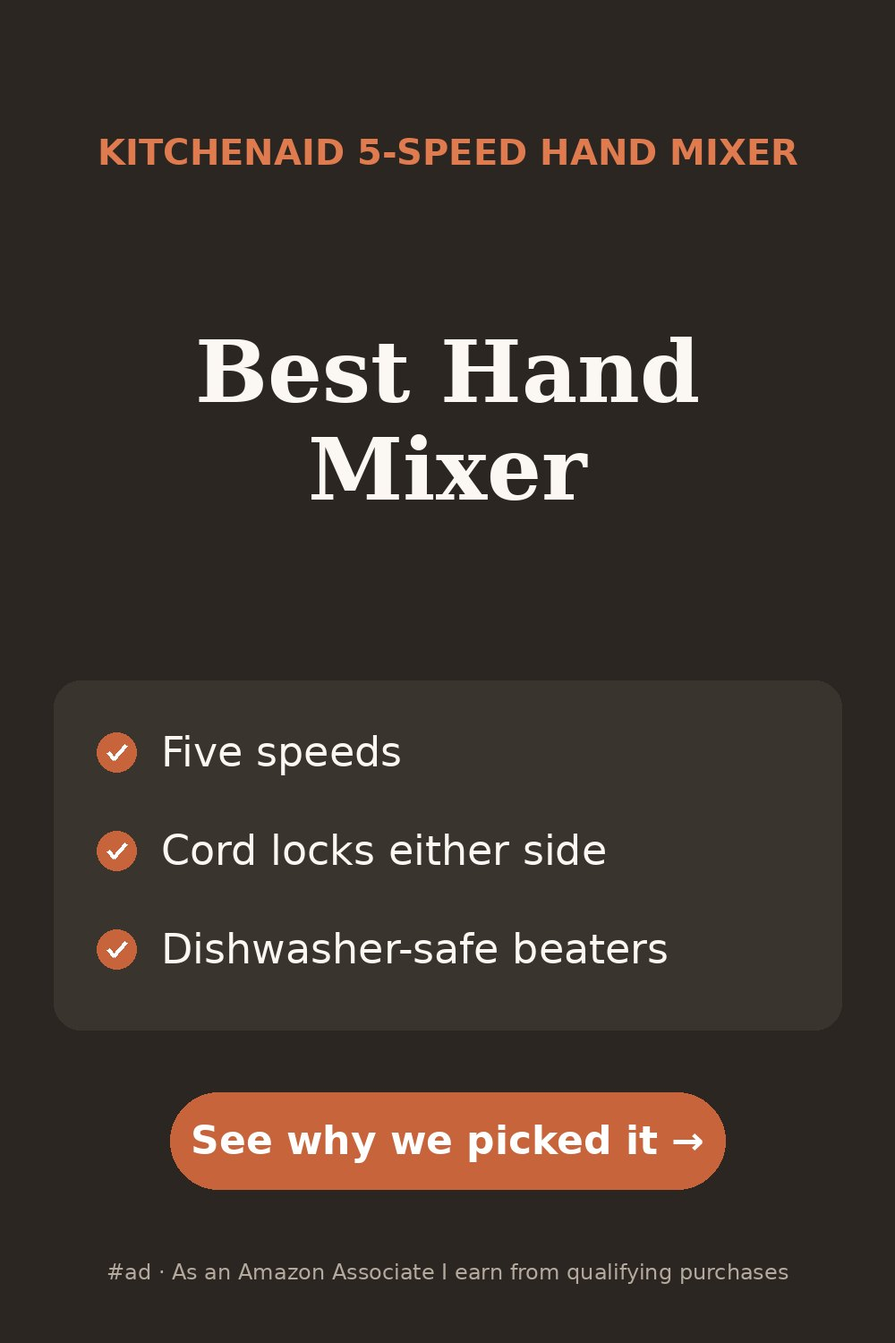
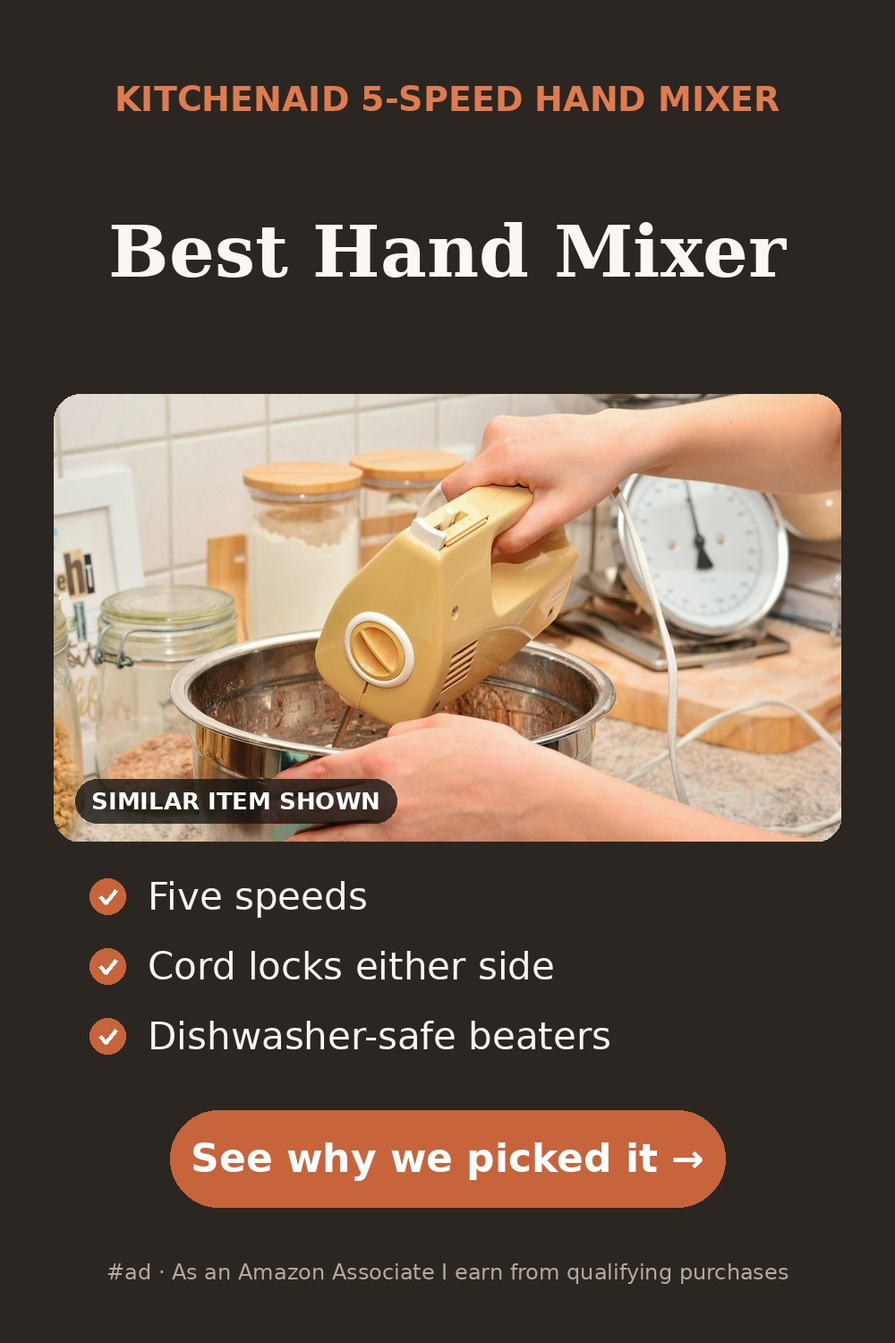
4 more product photos (34 of 62) (#40)
* Add similar-item photos for products that had none

* Add 4 more Pixabay photos (34 of 62), reject 25 off-target picks

Second Pixabay run (skipping previously rejected photos): kept two spice
racks, a hand mixer in use and a blender. Rejected 25 (circuit board,
parakeet, bulk water bottles, chopped okra, ...) and added them to
rejected.json so later runs try other photos.

Claude-Session: https://claude.ai/code/session_013Z8sgWpeXJjzgrsHKLojtB

---------

diff --git a/site/public/index.html b/site/public/index.html
@@ -206,7 +206,7 @@ try{navigator.sendBeacon('/click.php',new URLSearchParams({p:location.pathname,a
       </article>
       <article class="card" id="B01FHOWYA2" data-pl="card">
         <a class="img" href="https://www.amazon.com/dp/B01FHOWYA2?tag=kitchenfi0fde-20" rel="sponsored nofollow noopener" target="_blank">
-          <picture><source srcset="img/B01FHOWYA2-sq.webp" type="image/webp"><img src="img/B01FHOWYA2-sq.png" alt="Ninja Fit Compact Personal Blender" loading="lazy" width="800" height="800"></picture>
+          <picture><source srcset="img/B01FHOWYA2-sq.webp" type="image/webp"><img src="img/B01FHOWYA2-sq.png" alt="Ninja Fit Compact Personal Blender (photo shows a similar blender, not this exact product)" loading="lazy" width="800" height="800"></picture>
         </a>
         <div class="body">
           <h3><a href="picks/ninja-fit-compact-personal-blender/">Ninja Fit Compact Personal Blender</a></h3>
@@ -294,7 +294,7 @@ try{navigator.sendBeacon('/click.php',new URLSearchParams({p:location.pathname,a
       </article>
       <article class="card" id="B07NDZWMXF" data-pl="card">
         <a class="img" href="https://www.amazon.com/dp/B07NDZWMXF?tag=kitchenfi0fde-20" rel="sponsored nofollow noopener" target="_blank">
-          <picture><source srcset="img/B07NDZWMXF-sq.webp" type="image/webp"><img src="img/B07NDZWMXF-sq.png" alt="LYNK PROFESSIONAL Pull Out Spice Rack, 4-3/8 Inch Wide" loading="lazy" width="800" height="800"></picture>
+          <picture><source srcset="img/B07NDZWMXF-sq.webp" type="image/webp"><img src="img/B07NDZWMXF-sq.png" alt="LYNK PROFESSIONAL Pull Out Spice Rack, 4-3/8 Inch Wide (photo shows a similar spice rack, not this exact product)" loading="lazy" width="800" height="800"></picture>
         </a>
         <div class="body">
           <h3><a href="picks/lynk-professional-pull-out-spice-rack-4-3-8-inch-wide/">LYNK PROFESSIONAL Pull Out Spice Rack, 4-3/8 Inch Wide</a></h3>
@@ -371,7 +371,7 @@ try{navigator.sendBeacon('/click.php',new URLSearchParams({p:location.pathname,a
       </article>
       <article class="card" id="B0036OQU56" data-pl="card">
         <a class="img" href="https://www.amazon.com/dp/B0036OQU56?tag=kitchenfi0fde-20" rel="sponsored nofollow noopener" target="_blank">
-          <picture><source srcset="img/B0036OQU56-sq.webp" type="image/webp"><img src="img/B0036OQU56-sq.png" alt="Copco 3-Tier Cabinet Spice Rack, 15-Inch Non-Skid" loading="lazy" width="800" height="800"></picture>
+          <picture><source srcset="img/B0036OQU56-sq.webp" type="image/webp"><img src="img/B0036OQU56-sq.png" alt="Copco 3-Tier Cabinet Spice Rack, 15-Inch Non-Skid (photo shows a similar spice rack, not this exact product)" loading="lazy" width="800" height="800"></picture>
         </a>
         <div class="body">
           <h3><a href="picks/copco-3-tier-cabinet-spice-rack-15-inch-non-skid/">Copco 3-Tier Cabinet Spice Rack, 15-Inch Non-Skid</a></h3>
@@ -744,7 +744,7 @@ try{navigator.sendBeacon('/click.php',new URLSearchParams({p:location.pathname,a
       </article>
       <article class="card" id="B009VUHLHA" data-pl="card">
         <a class="img" href="https://www.amazon.com/dp/B009VUHLHA?tag=kitchenfi0fde-20" rel="sponsored nofollow noopener" target="_blank">
-          <picture><source srcset="img/B009VUHLHA-sq.webp" type="image/webp"><img src="img/B009VUHLHA-sq.png" alt="KitchenAid 5-Speed Ultra Power Hand Mixer" loading="lazy" width="800" height="800"></picture>
+          <picture><source srcset="img/B009VUHLHA-sq.webp" type="image/webp"><img src="img/B009VUHLHA-sq.png" alt="KitchenAid 5-Speed Ultra Power Hand Mixer (photo shows a similar hand mixer, not this exact product)" loading="lazy" width="800" height="800"></picture>
         </a>
         <div class="body">
           <h3><a href="picks/kitchenaid-5-speed-ultra-power-hand-mixer/">KitchenAid 5-Speed Ultra Power Hand Mixer</a></h3>

diff --git a/site/public/picks/copco-3-tier-cabinet-spice-rack-15-inch-non-skid/index.html b/site/public/picks/copco-3-tier-cabinet-spice-rack-15-inch-non-skid/index.html
@@ -160,9 +160,9 @@ try{navigator.sendBeacon('/click.php',new URLSearchParams({p:location.pathname,a
     <article class="pick" id="B0036OQU56" data-pl="pick">
       <div class="media">
       <a class="img" href="https://www.amazon.com/dp/B0036OQU56?tag=kitchenfi0fde-20" rel="sponsored nofollow noopener" target="_blank">
-        <picture><source srcset="../../img/B0036OQU56-sq.webp" type="image/webp"><img src="../../img/B0036OQU56-sq.png" alt="Copco 3-Tier Cabinet Spice Rack, 15-Inch Non-Skid" loading="eager" fetchpriority="high" width="800" height="800"></picture>
+        <picture><source srcset="../../img/B0036OQU56-sq.webp" type="image/webp"><img src="../../img/B0036OQU56-sq.png" alt="Copco 3-Tier Cabinet Spice Rack, 15-Inch Non-Skid (photo shows a similar spice rack, not this exact product)" loading="eager" fetchpriority="high" width="800" height="800"></picture>
       </a>
-      
+      <p class="photo-note">Photo shows a similar spice rack, not this exact product. See the real product photos on Amazon. Photo: <a href="https://pixabay.com/photos/spice-rack-cook-spices-preparation-2637251/" rel="nofollow noopener">Alexas_Fotos / Pixabay</a></p>
       </div>
       <div class="info">
         <h1>Copco 3-Tier Cabinet Spice Rack, 15-Inch Non-Skid</h1>
@@ -197,7 +197,7 @@ try{navigator.sendBeacon('/click.php',new URLSearchParams({p:location.pathname,a
       </article>
       <article class="card" id="B07NDZWMXF" data-pl="card">
         <a class="img" href="https://www.amazon.com/dp/B07NDZWMXF?tag=kitchenfi0fde-20" rel="sponsored nofollow noopener" target="_blank">
-          <picture><source srcset="../../img/B07NDZWMXF-sq.webp" type="image/webp"><img src="../../img/B07NDZWMXF-sq.png" alt="LYNK PROFESSIONAL Pull Out Spice Rack, 4-3/8 Inch Wide" loading="lazy" width="800" height="800"></picture>
+          <picture><source srcset="../../img/B07NDZWMXF-sq.webp" type="image/webp"><img src="../../img/B07NDZWMXF-sq.png" alt="LYNK PROFESSIONAL Pull Out Spice Rack, 4-3/8 Inch Wide (photo shows a similar spice rack, not this exact product)" loading="lazy" width="800" height="800"></picture>
         </a>
         <div class="body">
           <h3><a href="../../picks/lynk-professional-pull-out-spice-rack-4-3-8-inch-wide/">LYNK PROFESSIONAL Pull Out Spice Rack, 4-3/8 Inch Wide</a></h3>

diff --git a/site/public/picks/lynk-professional-pull-out-spice-rack-4-3-8-inch-wide/index.html b/site/public/picks/lynk-professional-pull-out-spice-rack-4-3-8-inch-wide/index.html
@@ -160,9 +160,9 @@ try{navigator.sendBeacon('/click.php',new URLSearchParams({p:location.pathname,a
     <article class="pick" id="B07NDZWMXF" data-pl="pick">
       <div class="media">
       <a class="img" href="https://www.amazon.com/dp/B07NDZWMXF?tag=kitchenfi0fde-20" rel="sponsored nofollow noopener" target="_blank">
-        <picture><source srcset="../../img/B07NDZWMXF-sq.webp" type="image/webp"><img src="../../img/B07NDZWMXF-sq.png" alt="LYNK PROFESSIONAL Pull Out Spice Rack, 4-3/8 Inch Wide" loading="eager" fetchpriority="high" width="800" height="800"></picture>
+        <picture><source srcset="../../img/B07NDZWMXF-sq.webp" type="image/webp"><img src="../../img/B07NDZWMXF-sq.png" alt="LYNK PROFESSIONAL Pull Out Spice Rack, 4-3/8 Inch Wide (photo shows a similar spice rack, not this exact product)" loading="eager" fetchpriority="high" width="800" height="800"></picture>
       </a>
-      
+      <p class="photo-note">Photo shows a similar spice rack, not this exact product. See the real product photos on Amazon. Photo: <a href="https://pixabay.com/photos/frog-cook-spices-preparation-meal-1650055/" rel="nofollow noopener">Alexas_Fotos / Pixabay</a></p>
       </div>
       <div class="info">
         <h1>LYNK PROFESSIONAL Pull Out Spice Rack, 4-3/8 Inch Wide</h1>
@@ -197,7 +197,7 @@ try{navigator.sendBeacon('/click.php',new URLSearchParams({p:location.pathname,a
       </article>
       <article class="card" id="B0036OQU56" data-pl="card">
         <a class="img" href="https://www.amazon.com/dp/B0036OQU56?tag=kitchenfi0fde-20" rel="sponsored nofollow noopener" target="_blank">
-          <picture><source srcset="../../img/B0036OQU56-sq.webp" type="image/webp"><img src="../../img/B0036OQU56-sq.png" alt="Copco 3-Tier Cabinet Spice Rack, 15-Inch Non-Skid" loading="lazy" width="800" height="800"></picture>
+          <picture><source srcset="../../img/B0036OQU56-sq.webp" type="image/webp"><img src="../../img/B0036OQU56-sq.png" alt="Copco 3-Tier Cabinet Spice Rack, 15-Inch Non-Skid (photo shows a similar spice rack, not this exact product)" loading="lazy" width="800" height="800"></picture>
         </a>
         <div class="body">
           <h3><a href="../../picks/copco-3-tier-cabinet-spice-rack-15-inch-non-skid/">Copco 3-Tier Cabinet Spice Rack, 15-Inch Non-Skid</a></h3>

diff --git a/site/public/picks/kitchenaid-5-speed-ultra-power-hand-mixer/index.html b/site/public/picks/kitchenaid-5-speed-ultra-power-hand-mixer/index.html
@@ -160,9 +160,9 @@ try{navigator.sendBeacon('/click.php',new URLSearchParams({p:location.pathname,a
     <article class="pick" id="B009VUHLHA" data-pl="pick">
       <div class="media">
       <a class="img" href="https://www.amazon.com/dp/B009VUHLHA?tag=kitchenfi0fde-20" rel="sponsored nofollow noopener" target="_blank">
-        <picture><source srcset="../../img/B009VUHLHA-sq.webp" type="image/webp"><img src="../../img/B009VUHLHA-sq.png" alt="KitchenAid 5-Speed Ultra Power Hand Mixer" loading="eager" fetchpriority="high" width="800" height="800"></picture>
+        <picture><source srcset="../../img/B009VUHLHA-sq.webp" type="image/webp"><img src="../../img/B009VUHLHA-sq.png" alt="KitchenAid 5-Speed Ultra Power Hand Mixer (photo shows a similar hand mixer, not this exact product)" loading="eager" fetchpriority="high" width="800" height="800"></picture>
       </a>
-      
+      <p class="photo-note">Photo shows a similar hand mixer, not this exact product. See the real product photos on Amazon. Photo: <a href="https://pixabay.com/photos/hands-stir-dough-stir-cake-batter-3402536/" rel="nofollow noopener">congerdesign / Pixabay</a></p>
       </div>
       <div class="info">
         <h1>KitchenAid 5-Speed Ultra Power Hand Mixer</h1>
@@ -186,7 +186,7 @@ try{navigator.sendBeacon('/click.php',new URLSearchParams({p:location.pathname,a
       <div class="grid">
       <article class="card" id="B01FHOWYA2" data-pl="card">
         <a class="img" href="https://www.amazon.com/dp/B01FHOWYA2?tag=kitchenfi0fde-20" rel="sponsored nofollow noopener" target="_blank">
-          <picture><source srcset="../../img/B01FHOWYA2-sq.webp" type="image/webp"><img src="../../img/B01FHOWYA2-sq.png" alt="Ninja Fit Compact Personal Blender" loading="lazy" width="800" height="800"></picture>
+          <picture><source srcset="../../img/B01FHOWYA2-sq.webp" type="image/webp"><img src="../../img/B01FHOWYA2-sq.png" alt="Ninja Fit Compact Personal Blender (photo shows a similar blender, not this exact product)" loading="lazy" width="800" height="800"></picture>
         </a>
         <div class="body">
           <h3><a href="../../picks/ninja-fit-compact-personal-blender/">Ninja Fit Compact Personal Blender</a></h3>

diff --git a/site/public/picks/ninja-fit-compact-personal-blender/index.html b/site/public/picks/ninja-fit-compact-personal-blender/index.html
@@ -160,9 +160,9 @@ try{navigator.sendBeacon('/click.php',new URLSearchParams({p:location.pathname,a
     <article class="pick" id="B01FHOWYA2" data-pl="pick">
       <div class="media">
       <a class="img" href="https://www.amazon.com/dp/B01FHOWYA2?tag=kitchenfi0fde-20" rel="sponsored nofollow noopener" target="_blank">
-        <picture><source srcset="../../img/B01FHOWYA2-sq.webp" type="image/webp"><img src="../../img/B01FHOWYA2-sq.png" alt="Ninja Fit Compact Personal Blender" loading="eager" fetchpriority="high" width="800" height="800"></picture>
+        <picture><source srcset="../../img/B01FHOWYA2-sq.webp" type="image/webp"><img src="../../img/B01FHOWYA2-sq.png" alt="Ninja Fit Compact Personal Blender (photo shows a similar blender, not this exact product)" loading="eager" fetchpriority="high" width="800" height="800"></picture>
       </a>
-      
+      <p class="photo-note">Photo shows a similar blender, not this exact product. See the real product photos on Amazon. Photo: <a href="https://pixabay.com/photos/blender-mixer-juicer-food-processor-10933/" rel="nofollow noopener">opaye / Pixabay</a></p>
       </div>
       <div class="info">
         <h1>Ninja Fit Compact Personal Blender</h1>
@@ -197,7 +197,7 @@ try{navigator.sendBeacon('/click.php',new URLSearchParams({p:location.pathname,a
       </article>
       <article class="card" id="B009VUHLHA" data-pl="card">
         <a class="img" href="https://www.amazon.com/dp/B009VUHLHA?tag=kitchenfi0fde-20" rel="sponsored nofollow noopener" target="_blank">
-          <picture><source srcset="../../img/B009VUHLHA-sq.webp" type="image/webp"><img src="../../img/B009VUHLHA-sq.png" alt="KitchenAid 5-Speed Ultra Power Hand Mixer" loading="lazy" width="800" height="800"></picture>
+          <picture><source srcset="../../img/B009VUHLHA-sq.webp" type="image/webp"><img src="../../img/B009VUHLHA-sq.png" alt="KitchenAid 5-Speed Ultra Power Hand Mixer (photo shows a similar hand mixer, not this exact product)" loading="lazy" width="800" height="800"></picture>
         </a>
         <div class="body">
           <h3><a href="../../picks/kitchenaid-5-speed-ultra-power-hand-mixer/">KitchenAid 5-Speed Ultra Power Hand Mixer</a></h3>

diff --git a/site/public/picks/spaceaid-bamboo-expandable-4-tier-spice-drawer-organizer/index.html b/site/public/picks/spaceaid-bamboo-expandable-4-tier-spice-drawer-organizer/index.html
@@ -186,7 +186,7 @@ try{navigator.sendBeacon('/click.php',new URLSearchParams({p:location.pathname,a
       <div class="grid">
       <article class="card" id="B07NDZWMXF" data-pl="card">
         <a class="img" href="https://www.amazon.com/dp/B07NDZWMXF?tag=kitchenfi0fde-20" rel="sponsored nofollow noopener" target="_blank">
-          <picture><source srcset="../../img/B07NDZWMXF-sq.webp" type="image/webp"><img src="../../img/B07NDZWMXF-sq.png" alt="LYNK PROFESSIONAL Pull Out Spice Rack, 4-3/8 Inch Wide" loading="lazy" width="800" height="800"></picture>
+          <picture><source srcset="../../img/B07NDZWMXF-sq.webp" type="image/webp"><img src="../../img/B07NDZWMXF-sq.png" alt="LYNK PROFESSIONAL Pull Out Spice Rack, 4-3/8 Inch Wide (photo shows a similar spice rack, not this exact product)" loading="lazy" width="800" height="800"></picture>
         </a>
         <div class="body">
           <h3><a href="../../picks/lynk-professional-pull-out-spice-rack-4-3-8-inch-wide/">LYNK PROFESSIONAL Pull Out Spice Rack, 4-3/8 Inch Wide</a></h3>
@@ -197,7 +197,7 @@ try{navigator.sendBeacon('/click.php',new URLSearchParams({p:location.pathname,a
       </article>
       <article class="card" id="B0036OQU56" data-pl="card">
         <a class="img" href="https://www.amazon.com/dp/B0036OQU56?tag=kitchenfi0fde-20" rel="sponsored nofollow noopener" target="_blank">
-          <picture><source srcset="../../img/B0036OQU56-sq.webp" type="image/webp"><img src="../../img/B0036OQU56-sq.png" alt="Copco 3-Tier Cabinet Spice Rack, 15-Inch Non-Skid" loading="lazy" width="800" height="800"></picture>
+          <picture><source srcset="../../img/B0036OQU56-sq.webp" type="image/webp"><img src="../../img/B0036OQU56-sq.png" alt="Copco 3-Tier Cabinet Spice Rack, 15-Inch Non-Skid (photo shows a similar spice rack, not this exact product)" loading="lazy" width="800" height="800"></picture>
         </a>
         <div class="body">
           <h3><a href="../../picks/copco-3-tier-cabinet-spice-rack-15-inch-non-skid/">Copco 3-Tier Cabinet Spice Rack, 15-Inch Non-Skid</a></h3>

diff --git a/site/public/picks/huggiegems-magnetic-spice-rack-4-pack/index.html b/site/public/picks/huggiegems-magnetic-spice-rack-4-pack/index.html
@@ -197,7 +197,7 @@ try{navigator.sendBeacon('/click.php',new URLSearchParams({p:location.pathname,a
       </article>
       <article class="card" id="B07NDZWMXF" data-pl="card">
         <a class="img" href="https://www.amazon.com/dp/B07NDZWMXF?tag=kitchenfi0fde-20" rel="sponsored nofollow noopener" target="_blank">
-          <picture><source srcset="../../img/B07NDZWMXF-sq.webp" type="image/webp"><img src="../../img/B07NDZWMXF-sq.png" alt="LYNK PROFESSIONAL Pull Out Spice Rack, 4-3/8 Inch Wide" loading="lazy" width="800" height="800"></picture>
+          <picture><source srcset="../../img/B07NDZWMXF-sq.webp" type="image/webp"><img src="../../img/B07NDZWMXF-sq.png" alt="LYNK PROFESSIONAL Pull Out Spice Rack, 4-3/8 Inch Wide (photo shows a similar spice rack, not this exact product)" loading="lazy" width="800" height="800"></picture>
         </a>
         <div class="body">
           <h3><a href="../../picks/lynk-professional-pull-out-spice-rack-4-3-8-inch-wide/">LYNK PROFESSIONAL Pull Out Spice Rack, 4-3/8 Inch Wide</a></h3>
@@ -208,7 +208,7 @@ try{navigator.sendBeacon('/click.php',new URLSearchParams({p:location.pathname,a
       </article>
       <article class="card" id="B0036OQU56" data-pl="card">
         <a class="img" href="https://www.amazon.com/dp/B0036OQU56?tag=kitchenfi0fde-20" rel="sponsored nofollow noopener" target="_blank">
-          <picture><source srcset="../../img/B0036OQU56-sq.webp" type="image/webp"><img src="../../img/B0036OQU56-sq.png" alt="Copco 3-Tier Cabinet Spice Rack, 15-Inch Non-Skid" loading="lazy" width="800" height="800"></picture>
+          <picture><source srcset="../../img/B0036OQU56-sq.webp" type="image/webp"><img src="../../img/B0036OQU56-sq.png" alt="Copco 3-Tier Cabinet Spice Rack, 15-Inch Non-Skid (photo shows a similar spice rack, not this exact product)" loading="lazy" width="800" height="800"></picture>
         </a>
         <div class="body">
           <h3><a href="../../picks/copco-3-tier-cabinet-spice-rack-15-inch-non-skid/">Copco 3-Tier Cabinet Spice Rack, 15-Inch Non-Skid</a></h3>

diff --git a/site/public/kitchen-organization/index.html b/site/public/kitchen-organization/index.html
@@ -217,7 +217,7 @@ try{navigator.sendBeacon('/click.php',new URLSearchParams({p:location.pathname,a
       </article>
       <article class="card" id="B07NDZWMXF" data-pl="card">
         <a class="img" href="https://www.amazon.com/dp/B07NDZWMXF?tag=kitchenfi0fde-20" rel="sponsored nofollow noopener" target="_blank">
-          <picture><source srcset="/img/B07NDZWMXF-sq.webp" type="image/webp"><img src="/img/B07NDZWMXF-sq.png" alt="LYNK PROFESSIONAL Pull Out Spice Rack, 4-3/8 Inch Wide" loading="lazy" width="800" height="800"></picture>
+          <picture><source srcset="/img/B07NDZWMXF-sq.webp" type="image/webp"><img src="/img/B07NDZWMXF-sq.png" alt="LYNK PROFESSIONAL Pull Out Spice Rack, 4-3/8 Inch Wide (photo shows a similar spice rack, not this exact product)" loading="lazy" width="800" height="800"></picture>
         </a>
         <div class="body">
           <h3><a href="/picks/lynk-professional-pull-out-spice-rack-4-3-8-inch-wide/">LYNK PROFESSIONAL Pull Out Spice Rack, 4-3/8 Inch Wide</a></h3>
@@ -294,7 +294,7 @@ try{navigator.sendBeacon('/click.php',new URLSearchParams({p:location.pathname,a
       </article>
       <article class="card" id="B0036OQU56" data-pl="card">
         <a class="img" href="https://www.amazon.com/dp/B0036OQU56?tag=kitchenfi0fde-20" rel="sponsored nofollow noopener" target="_blank">
-          <picture><source srcset="/img/B0036OQU56-sq.webp" type="image/webp"><img src="/img/B0036OQU56-sq.png" alt="Copco 3-Tier Cabinet Spice Rack, 15-Inch Non-Skid" loading="lazy" width="800" height="800"></picture>
+          <picture><source srcset="/img/B0036OQU56-sq.webp" type="image/webp"><img src="/img/B0036OQU56-sq.png" alt="Copco 3-Tier Cabinet Spice Rack, 15-Inch Non-Skid (photo shows a similar spice rack, not this exact product)" loading="lazy" width="800" height="800"></picture>
         </a>
         <div class="body">
           <h3><a href="/picks/copco-3-tier-cabinet-spice-rack-15-inch-non-skid/">Copco 3-Tier Cabinet Spice Rack, 15-Inch Non-Skid</a></h3>

diff --git a/site/public/picks/cuisinart-mini-prep-plus-3-cup-food-processor/index.html b/site/public/picks/cuisinart-mini-prep-plus-3-cup-food-processor/index.html
@@ -186,7 +186,7 @@ try{navigator.sendBeacon('/click.php',new URLSearchParams({p:location.pathname,a
       <div class="grid">
       <article class="card" id="B01FHOWYA2" data-pl="card">
         <a class="img" href="https://www.amazon.com/dp/B01FHOWYA2?tag=kitchenfi0fde-20" rel="sponsored nofollow noopener" target="_blank">
-          <picture><source srcset="../../img/B01FHOWYA2-sq.webp" type="image/webp"><img src="../../img/B01FHOWYA2-sq.png" alt="Ninja Fit Compact Personal Blender" loading="lazy" width="800" height="800"></picture>
+          <picture><source srcset="../../img/B01FHOWYA2-sq.webp" type="image/webp"><img src="../../img/B01FHOWYA2-sq.png" alt="Ninja Fit Compact Personal Blender (photo shows a similar blender, not this exact product)" loading="lazy" width="800" height="800"></picture>
         </a>
         <div class="body">
           <h3><a href="../../picks/ninja-fit-compact-personal-blender/">Ninja Fit Compact Personal Blender</a></h3>
@@ -208,7 +208,7 @@ try{navigator.sendBeacon('/click.php',new URLSearchParams({p:location.pathname,a
       </article>
       <article class="card" id="B009VUHLHA" data-pl="card">
         <a class="img" href="https://www.amazon.com/dp/B009VUHLHA?tag=kitchenfi0fde-20" rel="sponsored nofollow noopener" target="_blank">
-          <picture><source srcset="../../img/B009VUHLHA-sq.webp" type="image/webp"><img src="../../img/B009VUHLHA-sq.png" alt="KitchenAid 5-Speed Ultra Power Hand Mixer" loading="lazy" width="800" height="800"></picture>
+          <picture><source srcset="../../img/B009VUHLHA-sq.webp" type="image/webp"><img src="../../img/B009VUHLHA-sq.png" alt="KitchenAid 5-Speed Ultra Power Hand Mixer (photo shows a similar hand mixer, not this exact product)" loading="lazy" width="800" height="800"></picture>
         </a>
         <div class="body">
           <h3><a href="../../picks/kitchenaid-5-speed-ultra-power-hand-mixer/">KitchenAid 5-Speed Ultra Power Hand Mixer</a></h3>

diff --git a/site/public/picks/mueller-multistick-5-in-1-immersion-blender/index.html b/site/public/picks/mueller-multistick-5-in-1-immersion-blender/index.html
@@ -186,7 +186,7 @@ try{navigator.sendBeacon('/click.php',new URLSearchParams({p:location.pathname,a
       <div class="grid">
       <article class="card" id="B01FHOWYA2" data-pl="card">
         <a class="img" href="https://www.amazon.com/dp/B01FHOWYA2?tag=kitchenfi0fde-20" rel="sponsored nofollow noopener" target="_blank">
-          <picture><source srcset="../../img/B01FHOWYA2-sq.webp" type="image/webp"><img src="../../img/B01FHOWYA2-sq.png" alt="Ninja Fit Compact Personal Blender" loading="lazy" width="800" height="800"></picture>
+          <picture><source srcset="../../img/B01FHOWYA2-sq.webp" type="image/webp"><img src="../../img/B01FHOWYA2-sq.png" alt="Ninja Fit Compact Personal Blender (photo shows a similar blender, not this exact product)" loading="lazy" width="800" height="800"></picture>
         </a>
         <div class="body">
           <h3><a href="../../picks/ninja-fit-compact-personal-blender/">Ninja Fit Compact Personal Blender</a></h3>
@@ -197,7 +197,7 @@ try{navigator.sendBeacon('/click.php',new URLSearchParams({p:location.pathname,a
       </article>
       <article class="card" id="B009VUHLHA" data-pl="card">
         <a class="img" href="https://www.amazon.com/dp/B009VUHLHA?tag=kitchenfi0fde-20" rel="sponsored nofollow noopener" target="_blank">
-          <picture><source srcset="../../img/B009VUHLHA-sq.webp" type="image/webp"><img src="../../img/B009VUHLHA-sq.png" alt="KitchenAid 5-Speed Ultra Power Hand Mixer" loading="lazy" width="800" height="800"></picture>
+          <picture><source srcset="../../img/B009VUHLHA-sq.webp" type="image/webp"><img src="../../img/B009VUHLHA-sq.png" alt="KitchenAid 5-Speed Ultra Power Hand Mixer (photo shows a similar hand mixer, not this exact product)" loading="lazy" width="800" height="800"></picture>
         </a>
         <div class="body">
           <h3><a href="../../picks/kitchenaid-5-speed-ultra-power-hand-mixer/">KitchenAid 5-Speed Ultra Power Hand Mixer</a></h3>

diff --git a/site/public/picks/muellerliving-ultra-stick-immersion-hand-blender/index.html b/site/public/picks/muellerliving-ultra-stick-immersion-hand-blender/index.html
@@ -186,7 +186,7 @@ try{navigator.sendBeacon('/click.php',new URLSearchParams({p:location.pathname,a
       <div class="grid">
       <article class="card" id="B01FHOWYA2" data-pl="card">
         <a class="img" href="https://www.amazon.com/dp/B01FHOWYA2?tag=kitchenfi0fde-20" rel="sponsored nofollow noopener" target="_blank">
-          <picture><source srcset="../../img/B01FHOWYA2-sq.webp" type="image/webp"><img src="../../img/B01FHOWYA2-sq.png" alt="Ninja Fit Compact Personal Blender" loading="lazy" width="800" height="800"></picture>
+          <picture><source srcset="../../img/B01FHOWYA2-sq.webp" type="image/webp"><img src="../../img/B01FHOWYA2-sq.png" alt="Ninja Fit Compact Personal Blender (photo shows a similar blender, not this exact product)" loading="lazy" width="800" height="800"></picture>
         </a>
         <div class="body">
           <h3><a href="../../picks/ninja-fit-compact-personal-blender/">Ninja Fit Compact Personal Blender</a></h3>
@@ -208,7 +208,7 @@ try{navigator.sendBeacon('/click.php',new URLSearchParams({p:location.pathname,a
       </article>
       <article class="card" id="B009VUHLHA" data-pl="card">
         <a class="img" href="https://www.amazon.com/dp/B009VUHLHA?tag=kitchenfi0fde-20" rel="sponsored nofollow noopener" target="_blank">
-          <picture><source srcset="../../img/B009VUHLHA-sq.webp" type="image/webp"><img src="../../img/B009VUHLHA-sq.png" alt="KitchenAid 5-Speed Ultra Power Hand Mixer" loading="lazy" width="800" height="800"></picture>
+          <picture><source srcset="../../img/B009VUHLHA-sq.webp" type="image/webp"><img src="../../img/B009VUHLHA-sq.png" alt="KitchenAid 5-Speed Ultra Power Hand Mixer (photo shows a similar hand mixer, not this exact product)" loading="lazy" width="800" height="800"></picture>
         </a>
         <div class="body">
           <h3><a href="../../picks/kitchenaid-5-speed-ultra-power-hand-mixer/">KitchenAid 5-Speed Ultra Power Hand Mixer</a></h3>

diff --git a/site/public/small-kitchen-appliances/index.html b/site/public/small-kitchen-appliances/index.html
@@ -180,7 +180,7 @@ try{navigator.sendBeacon('/click.php',new URLSearchParams({p:location.pathname,a
       </article>
       <article class="card" id="B01FHOWYA2" data-pl="card">
         <a class="img" href="https://www.amazon.com/dp/B01FHOWYA2?tag=kitchenfi0fde-20" rel="sponsored nofollow noopener" target="_blank">
-          <picture><source srcset="/img/B01FHOWYA2-sq.webp" type="image/webp"><img src="/img/B01FHOWYA2-sq.png" alt="Ninja Fit Compact Personal Blender" loading="eager" fetchpriority="high" width="800" height="800"></picture>
+          <picture><source srcset="/img/B01FHOWYA2-sq.webp" type="image/webp"><img src="/img/B01FHOWYA2-sq.png" alt="Ninja Fit Compact Personal Blender (photo shows a similar blender, not this exact product)" loading="eager" fetchpriority="high" width="800" height="800"></picture>
         </a>
         <div class="body">
           <h3><a href="/picks/ninja-fit-compact-personal-blender/">Ninja Fit Compact Personal Blender</a></h3>
@@ -224,7 +224,7 @@ try{navigator.sendBeacon('/click.php',new URLSearchParams({p:location.pathname,a
       </article>
       <article class="card" id="B009VUHLHA" data-pl="card">
         <a class="img" href="https://www.amazon.com/dp/B009VUHLHA?tag=kitchenfi0fde-20" rel="sponsored nofollow noopener" target="_blank">
-          <picture><source srcset="/img/B009VUHLHA-sq.webp" type="image/webp"><img src="/img/B009VUHLHA-sq.png" alt="KitchenAid 5-Speed Ultra Power Hand Mixer" loading="lazy" width="800" height="800"></picture>
+          <picture><source srcset="/img/B009VUHLHA-sq.webp" type="image/webp"><img src="/img/B009VUHLHA-sq.png" alt="KitchenAid 5-Speed Ultra Power Hand Mixer (photo shows a similar hand mixer, not this exact product)" loading="lazy" width="800" height="800"></picture>
         </a>
         <div class="body">
           <h3><a href="/picks/kitchenaid-5-speed-ultra-power-hand-mixer/">KitchenAid 5-Speed Ultra Power Hand Mixer</a></h3>
